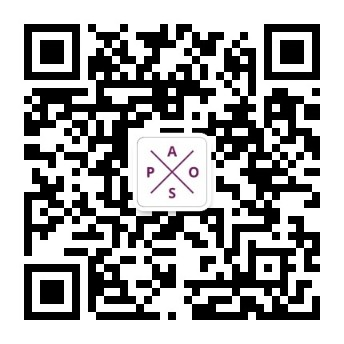
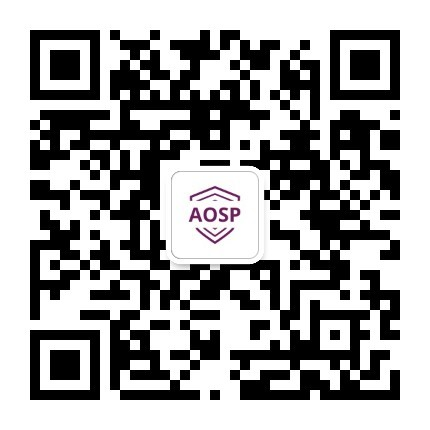
docs: update advisor bio and replace lab QR code
- Rewrite Xiang Li's advisor introduction with updated achievements
- Replace lab QR code image with new version

Changed region(s): [[0.407, 0.407, 0.5814, 0.5814], [0.5523, 0.5523, 0.5814, 0.5814]]

diff --git a/static/query_app.js b/static/query_app.js
@@ -100,7 +100,7 @@ const I18N = {
     lab_name: "AOSP Laboratory, Nankai University",
     lab_slogan: "All-in-One Security and Privacy Lab",
     lab_advisor_intro:
-      'Advisor: Associate Professor <a href="https://lixiang521.com/" target="_blank" rel="noopener">Xiang Li</a>, College of Cryptology and Cyber Science, Nankai University. Ph.D. from Tsinghua University. Research focuses on network security, protocol security, DNS security, and Internet measurement. Published 32+ papers at top venues (S&P, USENIX Security, CCS, NDSS). Discovered 250+ CVE/CNVD/CNNVD vulnerabilities. 2024 ACM SIGSAC China Excellent Doctoral Dissertation Award. Pwnie Award nominee 2024.',
+      'Advisor: <a href="https://lixiang521.com/" target="_blank" rel="noopener">Xiang Li</a>, Associate Professor at the College of Cryptology and Cyber Science, Nankai University. National Outstanding Talent in Cyberspace. Research areas include network security, protocol security, vulnerability discovery, and LLM security. Published 30+ papers at international conferences, including 10+ as first/corresponding author, achieving a grand slam of first-author papers across all top-4 cybersecurity venues, and has presented at Black Hat for four consecutive years. Led or participated in 9 national-level projects, filed 10+ patents, and received 250+ vulnerability IDs. Awards include ACM SIGSAC China Outstanding Doctoral Dissertation, GeekPwn champion & runner-up, Pwnie Award nomination for Most Innovative Research, and ACSAC Cybersecurity Impact Award.',
     lab_qrcode_caption: "Follow AOSP Lab",
   },
   zh: {
@@ -166,7 +166,7 @@ const I18N = {
     lab_name: "南开大学 AOSP 实验室",
     lab_slogan: "All-in-One Security and Privacy Lab",
     lab_advisor_intro:
-      '导师：南开大学密码与网络空间安全学院副教授<a href="https://lixiang521.com/" target="_blank" rel="noopener">李想</a>，清华大学博士。研究方向：网络安全、协议安全、DNS 安全、互联网测量。在 S&P、USENIX Security、CCS、NDSS 等顶级会议发表论文 32 余篇，发现 250+ CVE/CNVD/CNNVD 漏洞。2024 年 ACM SIGSAC 中国优秀博士论文奖，2024 年 Pwnie Award 最具创新性研究提名。',
+      '导师：<a href="https://lixiang521.com/" target="_blank" rel="noopener">李想</a>，南开大学密码与网络空间安全学院副教授，国家网信领域优秀人才，研究领域包括网络安全、协议安全、漏洞挖掘与大模型安全，已发表国际会议论文三十余篇，其中第一作者或通讯作者论文十余篇，实现网络安全顶会论文一作大满贯，并连续四年在 Black Hat 上完成报告，主持或参与国家级等项目九项，申请专利十余项，获批漏洞编号 250+，获得 ACM SIGSAC 中国优博奖、国际安全极客大赛冠亚军、全球黑客奥斯卡最具创新研究提名奖、ACSAC 网络安全技术成果影响力奖等。',
     lab_qrcode_caption: "关注 AOSP 实验室",
   },
 };

diff --git a/templates/index.html b/templates/index.html
@@ -188,7 +188,7 @@
           <div class="lab-promo-info">
             <h3 data-i18n="lab_name">AOSP Laboratory, Nankai University</h3>
             <p class="lab-slogan" data-i18n="lab_slogan">All-in-One Security and Privacy Lab</p>
-            <p data-i18n-html="lab_advisor_intro">Advisor: Associate Professor <a href="https://lixiang521.com/" target="_blank" rel="noopener">Xiang Li</a>, College of Cryptology and Cyber Science, Nankai University. Ph.D. from Tsinghua University. Research focuses on network security, protocol security, DNS security, and Internet measurement. Published 32+ papers at top venues (S&amp;P, USENIX Security, CCS, NDSS). Discovered 250+ CVE/CNVD/CNNVD vulnerabilities. 2024 ACM SIGSAC China Excellent Doctoral Dissertation Award. Pwnie Award nominee 2024.</p>
+            <p data-i18n-html="lab_advisor_intro">Advisor: <a href="https://lixiang521.com/" target="_blank" rel="noopener">Xiang Li</a>, Associate Professor at the College of Cryptology and Cyber Science, Nankai University. National Outstanding Talent in Cyberspace. Research areas include network security, protocol security, vulnerability discovery, and LLM security. Published 30+ papers at international conferences, including 10+ as first/corresponding author, achieving a grand slam of first-author papers across all top-4 cybersecurity venues, and has presented at Black Hat for four consecutive years. Led or participated in 9 national-level projects, filed 10+ patents, and received 250+ vulnerability IDs. Awards include ACM SIGSAC China Outstanding Doctoral Dissertation, GeekPwn champion &amp; runner-up, Pwnie Award nomination for Most Innovative Research, and ACSAC Cybersecurity Impact Award.</p>
           </div>
           <div class="lab-promo-qrcode">
             <img src="/static/aosp-qrcode.jpg" alt="AOSP Lab QR Code" />
